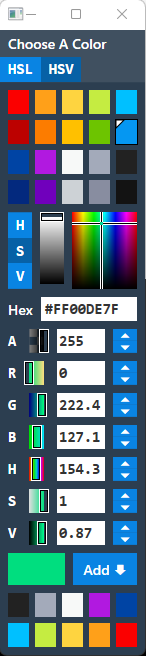
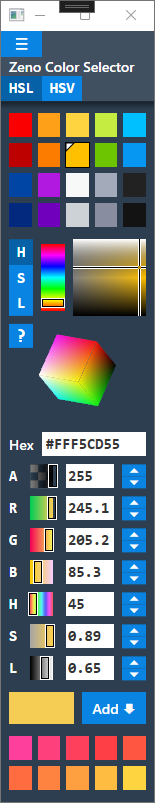
Added updated media and window/app title

diff --git a/ColorSelector/Themes/Generic.xaml b/ColorSelector/Themes/Generic.xaml
@@ -1794,7 +1794,7 @@
                                     <TextBlock Style="{StaticResource buttonText}" Text="≡" Foreground="White" FontSize="24" 
                                                FontWeight="Normal" LineHeight="24" LineStackingStrategy="BlockLineHeight"/>
                                 </Button>
-                                <TextBlock Text="Color Selector"
+                                <TextBlock Text="Zeno Color Selector"
                                            HorizontalAlignment="Center"
                                            Margin="8,0,8,0"
                                            Style="{StaticResource MenuSectionHeader}"

diff --git a/ColorSelectorTestApp/MainWindow.xaml b/ColorSelectorTestApp/MainWindow.xaml
@@ -6,7 +6,7 @@
         xmlns:local="clr-namespace:ColorSelectorTestApp"
         xmlns:colorSelector="clr-namespace:ColorSelector;assembly=ColorSelector"
         mc:Ignorable="d"
-        Title="MainWindow" Height="830" Width="300">
+        Title="Divide By Zeno" Height="830" Width="300">
     <Grid>
         <colorSelector:ColorSelector 
             x:Name="colorSelector"
